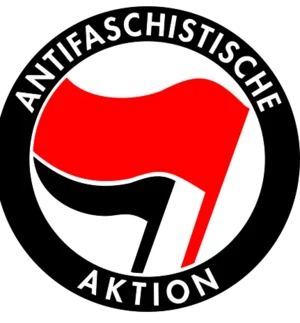
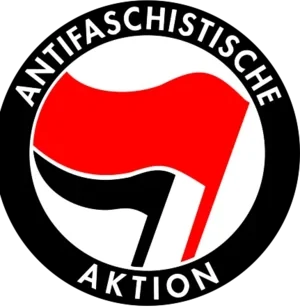
trim badges

diff --git a/files/templates/userpage/banner.html b/files/templates/userpage/banner.html
@@ -32,7 +32,7 @@
 								{% endif %}
 
 								{% if FEATURES['PATRON_ICONS'] and u.patron > 1 %}
-									<img loading="lazy" src="{{SITE_FULL_IMAGES}}/i/{{SITE_NAME}}/badges/2{{u.patron}}.webp?b=8" class="ml-3 patron-img" data-bs-toggle="tooltip" data-bs-placement="bottom" title="{{u.patron_tooltip}}" alt="{{u.patron_tooltip}}">
+									<img loading="lazy" src="{{SITE_FULL_IMAGES}}/i/{{SITE_NAME}}/badges/2{{u.patron}}.webp?b=9" class="ml-3 patron-img" data-bs-toggle="tooltip" data-bs-placement="bottom" title="{{u.patron_tooltip}}" alt="{{u.patron_tooltip}}">
 								{% endif %}
 
 								{% if FEATURES['HOUSES'] and u.house %}
@@ -300,7 +300,7 @@
 				{% endif %}
 
 				{% if FEATURES['PATRON_ICONS'] and u.patron > 1 %}
-					<img loading="lazy" src="{{SITE_FULL_IMAGES}}/i/{{SITE_NAME}}/badges/2{{u.patron}}.webp?b=8" class="ml-2 patron-img" data-bs-toggle="tooltip" data-bs-placement="bottom" title="{{u.patron_tooltip}}" alt="{{u.patron_tooltip}}">
+					<img loading="lazy" src="{{SITE_FULL_IMAGES}}/i/{{SITE_NAME}}/badges/2{{u.patron}}.webp?b=9" class="ml-2 patron-img" data-bs-toggle="tooltip" data-bs-placement="bottom" title="{{u.patron_tooltip}}" alt="{{u.patron_tooltip}}">
 				{% endif %}
 
 				{% if FEATURES['HOUSES'] and u.house %}

diff --git a/files/templates/comments.html b/files/templates/comments.html
@@ -159,7 +159,7 @@
 					<span {% if c.distinguish_level %}class="mod {% if SITE_NAME == 'rDrama' %}mod-rdrama{% endif %}"{% endif %}>👻</span>
 				{% else %}
 					{% if FEATURES['PATRON_ICONS'] and c.author.patron > 1 %}
-						<img loading="lazy" src="{{SITE_FULL_IMAGES}}/i/{{SITE_NAME}}/badges/2{{c.author.patron}}.webp?b=8" class="patron-img" data-bs-toggle="tooltip" data-bs-placement="bottom" title="{{c.author.patron_tooltip}}" alt="{{c.author.patron_tooltip}}">
+						<img loading="lazy" src="{{SITE_FULL_IMAGES}}/i/{{SITE_NAME}}/badges/2{{c.author.patron}}.webp?b=9" class="patron-img" data-bs-toggle="tooltip" data-bs-placement="bottom" title="{{c.author.patron_tooltip}}" alt="{{c.author.patron_tooltip}}">
 					{% endif %}
 
 					{% if FEATURES['HOUSES'] and c.author.house %}

diff --git a/files/templates/util/macros.html b/files/templates/util/macros.html
@@ -60,7 +60,7 @@
 		<span {% if p.distinguish_level %}class="mod {% if SITE_NAME == 'rDrama' %}mod-rdrama{% endif %}"{% endif %}>👻</span>
 	{% else %}
 		{% if FEATURES['PATRON_ICONS'] and p.author.patron > 1 %}
-			<img loading="lazy" src="{{SITE_FULL_IMAGES}}/i/{{SITE_NAME}}/badges/2{{p.author.patron}}.webp?b=8" class="patron-img" data-bs-toggle="tooltip" data-bs-placement="bottom" title="{{p.author.patron_tooltip}}" alt="{{p.author.patron_tooltip}}">
+			<img loading="lazy" src="{{SITE_FULL_IMAGES}}/i/{{SITE_NAME}}/badges/2{{p.author.patron}}.webp?b=9" class="patron-img" data-bs-toggle="tooltip" data-bs-placement="bottom" title="{{p.author.patron_tooltip}}" alt="{{p.author.patron_tooltip}}">
 		{% endif %}
 
 		{% if FEATURES['HOUSES'] and p.author.house %}

diff --git a/files/templates/admin/patrons.html b/files/templates/admin/patrons.html
@@ -17,7 +17,7 @@
 		<td>{% include "user_in_table.html" %}</td>
 		<td data-sort-key="{{user.patrons}}">
 			{% if user.patron > 1 %}
-				<img class="contain" alt="2{{user.patron}}" loading="lazy" width=29.33 height=32 src="{{SITE_FULL_IMAGES}}/i/{{SITE_NAME}}/badges/2{{user.patron}}.webp?b=8" data-bs-toggle="tooltip" data-bs-placement="bottom" title="{{user.patron_tooltip}}">
+				<img class="contain" alt="2{{user.patron}}" loading="lazy" width=29.33 height=32 src="{{SITE_FULL_IMAGES}}/i/{{SITE_NAME}}/badges/2{{user.patron}}.webp?b=9" data-bs-toggle="tooltip" data-bs-placement="bottom" title="{{user.patron_tooltip}}">
 			{% endif %}
 		</td>
 		<td data-sort-key="{{user.lifetime_donated}}">${{user.lifetime_donated}}</td>

diff --git a/files/assets/js/comments+submission_listing.js b/files/assets/js/comments+submission_listing.js
@@ -27,7 +27,7 @@ document.addEventListener('shown.bs.popover', (e) => {
 		badgesDOM.innerHTML = "";
 		for (const badge of author["badges"]) {
 			const badgeDOM = popClickBadgeTemplateDOM.cloneNode();
-			badgeDOM.src = badge + "?b=8";
+			badgeDOM.src = badge + "?b=9";
 
 			badgesDOM.append(badgeDOM);
 		}

diff --git a/files/classes/badges.py b/files/classes/badges.py
@@ -27,9 +27,9 @@ class BadgeDef(Base):
 	@lazy
 	def path(self):
 		if self.id == 7 or 20 < self.id < 29 or self.id == 222:
-			return f"{SITE_FULL_IMAGES}/i/{SITE_NAME}/badges/{self.id}.webp?b=8"
+			return f"{SITE_FULL_IMAGES}/i/{SITE_NAME}/badges/{self.id}.webp?b=9"
 
-		return f"{SITE_FULL_IMAGES}/i/badges/{self.id}.webp?b=8"
+		return f"{SITE_FULL_IMAGES}/i/badges/{self.id}.webp?b=9"
 
 class Badge(Base):
 

diff --git a/files/routes/comments.py b/files/routes/comments.py
@@ -212,7 +212,7 @@ def comment(v:User):
 							g.db.flush()
 							filename = f'files/assets/images/badges/{badge.id}.webp'
 							copyfile(oldname, filename)
-							process_image(filename, v, resize=300)
+							process_image(filename, v, resize=300, trim=True)
 							purge_files_in_cache(f"https://{SITE}/assets/images/badges/{badge.id}.webp")
 						except Exception as e:
 							abort(400, str(e))
